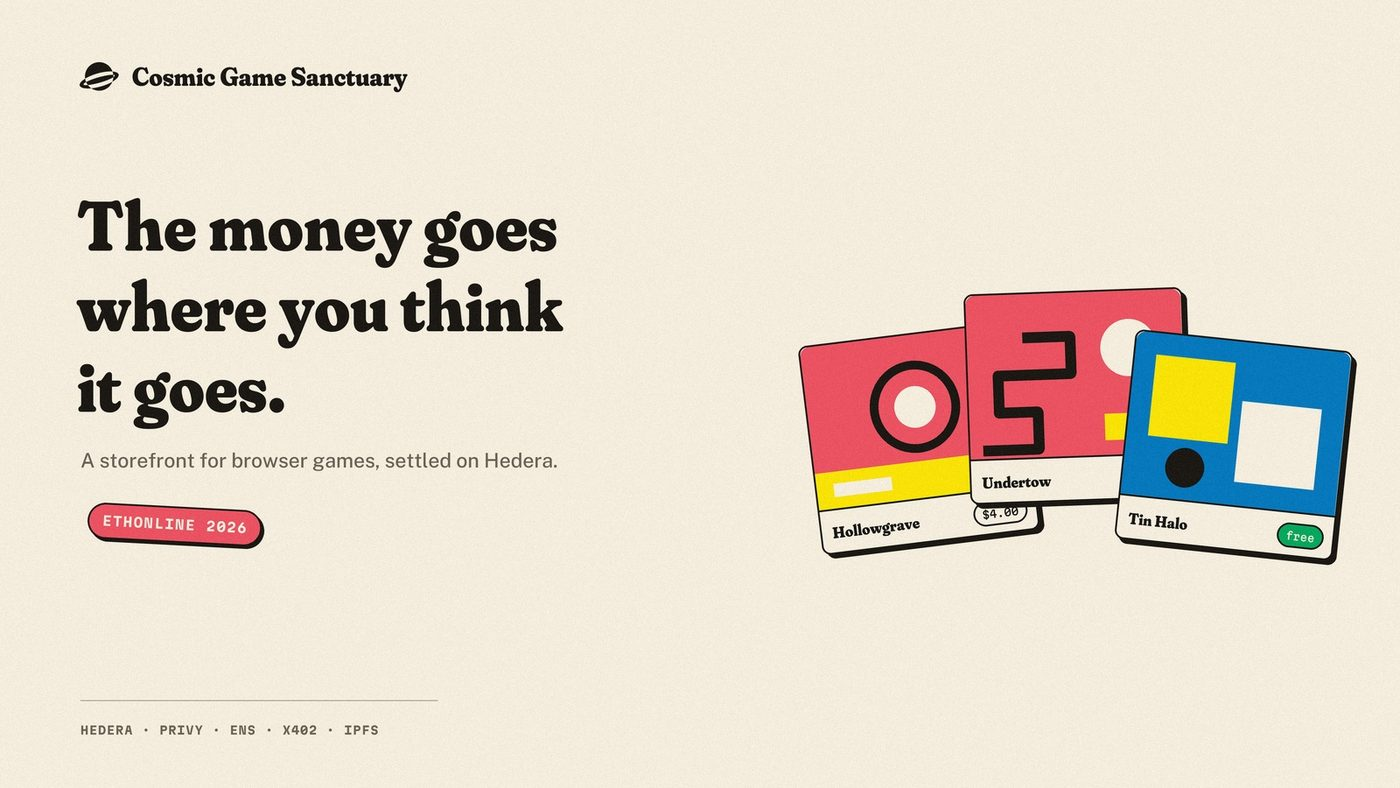
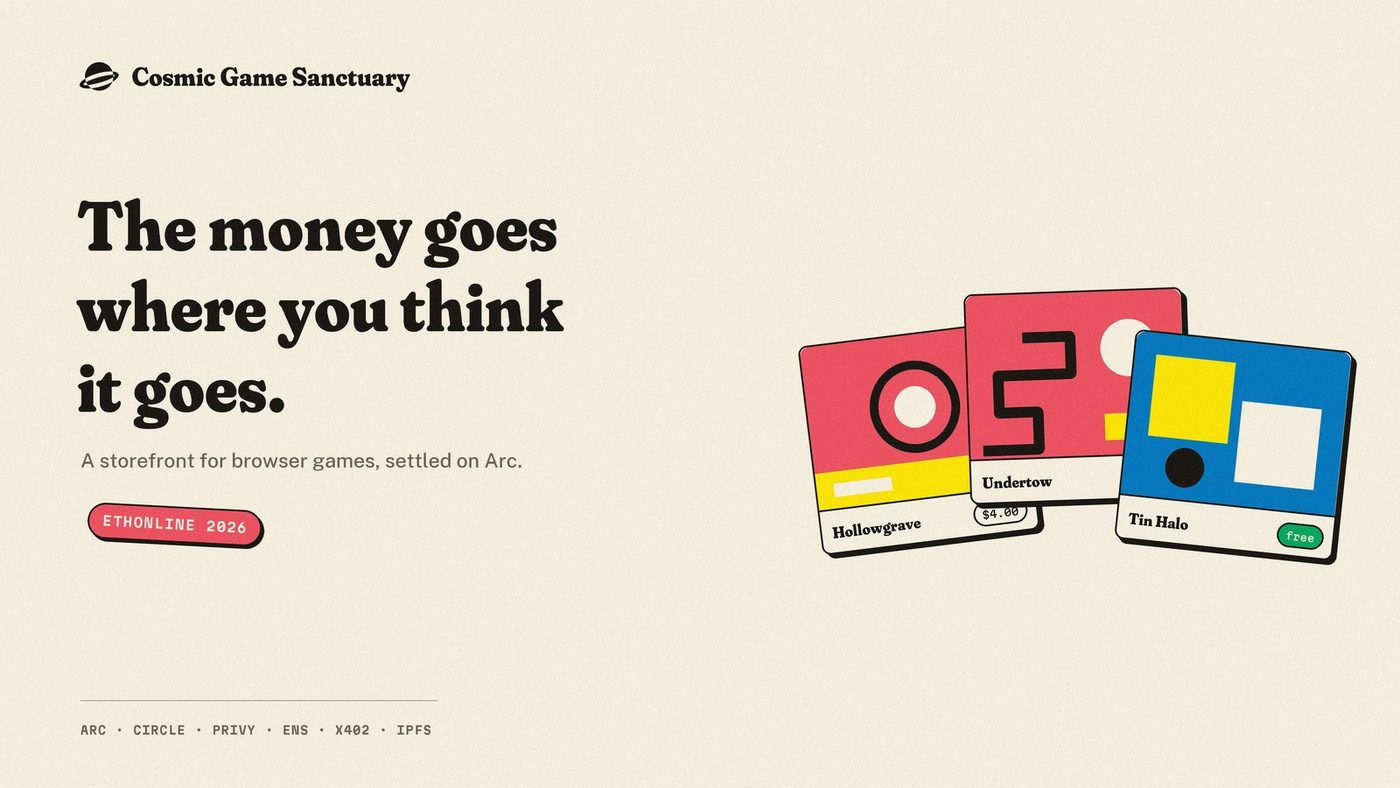
projects: bullet points, cgs on arc, card seam and overlap fixes
- Project descriptions in the modal are now bullet lists (longDesc
  becomes about: string[]) for every project.
- Highlight order: Breadcrumb, NextWeeb, Cosmic Game Sanctuary, Skrim.
- CGS moves from Hedera to Arc mainnet in copy, stack and modal banner
  (re-rendered from the CGS social render script), with a shorter card
  line.
- The desktop relic card art had a 2px light seam baked in, showing as a
  line through every card; patched in the image.
- The card's View Project button is in flow instead of absolutely
  placed, so a wrapping title can no longer push the text under it.

diff --git a/src/pages/projects/ProjectsDesktop.tsx b/src/pages/projects/ProjectsDesktop.tsx
@@ -60,12 +60,16 @@ const ProjectCard = ({ proj, index, onSelect }: ProjectCardProps) => (
             </div>
 
             {/* Content Section */}
-            <div className="w-8/13 py-2 pl-6 pr-10 flex flex-col justify-center relative">
+            <div className="w-8/13 py-2 pl-6 pr-10 flex flex-col justify-center">
                 <h2 className="text-4xl font-pixel2 mb-3 text-black">{proj.title}</h2>
                 <p className="text-base font-serif text-gray-800 leading-relaxed mb-4">{proj.desc}</p>
+                {/* In flow rather than absolutely placed: the column is vertically
+                    centred, so a title that wraps to two lines used to push the
+                    description down underneath a button pinned to a fixed spot.
+                    `self-end` + `mr-3` keeps it where it was, 52px off the right edge. */}
                 <button
                     onClick={() => onSelect(proj)}
-                    className="absolute bottom-13 right-13 w-30 h-10 transition-all duration-200 group"
+                    className="relative self-end shrink-0 mr-3 w-30 h-10 transition-all duration-200 group"
                 >
                     <img
                         src="/assets/other/button_rectangle_depth_flat.png"

diff --git a/src/components/ProjectDetail.tsx b/src/components/ProjectDetail.tsx
@@ -1,3 +1,4 @@
+import InlineText from "./InlineText";
 import type { Project } from "../content/projects";
 
 /** Pixel button used for the outbound project links. */
@@ -47,9 +48,13 @@ const ProjectDetail = ({ project }: { project: Project }) => {
 
             <div className="mb-6">
                 <h3 className="text-lg md:text-2xl font-pixel mb-3 text-black">About</h3>
-                <p className="text-base font-serif text-gray-800 leading-relaxed">
-                    {project.longDesc}
-                </p>
+                <ul className="ml-5 list-disc space-y-2 text-base font-serif text-gray-800 leading-relaxed marker:text-blue-600">
+                    {project.about.map(point => (
+                        <li key={point}>
+                            <InlineText text={point} />
+                        </li>
+                    ))}
+                </ul>
             </div>
 
             {project.techStack.length > 0 && (

diff --git a/src/content/projects.ts b/src/content/projects.ts
@@ -3,7 +3,8 @@ import data from "./projects.json";
 export type Project = {
     title: string;
     desc: string;
-    longDesc: string;
+    /** The modal's About section, one bullet each. Supports `InlineText` markup. */
+    about: string[];
     img: string;
     modalImg: string;
     github: string;
